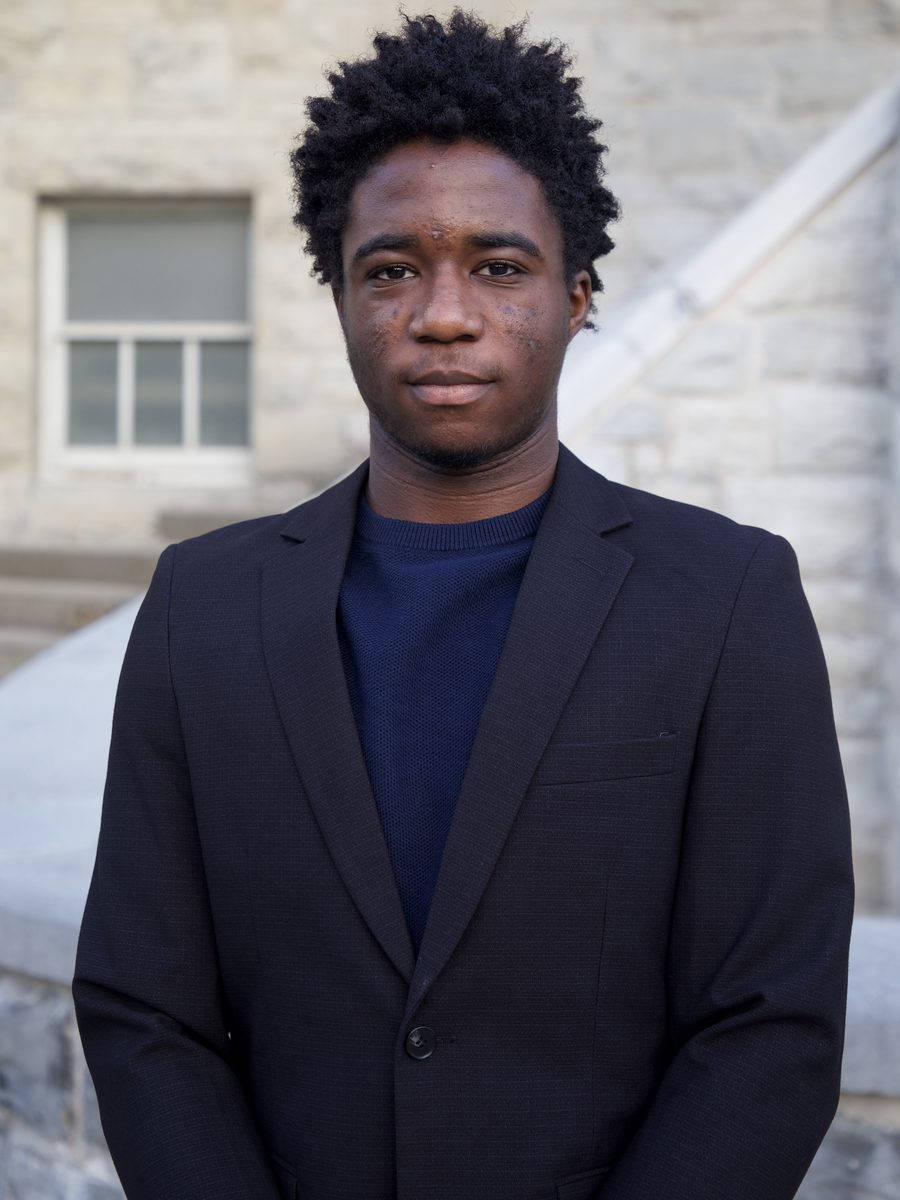
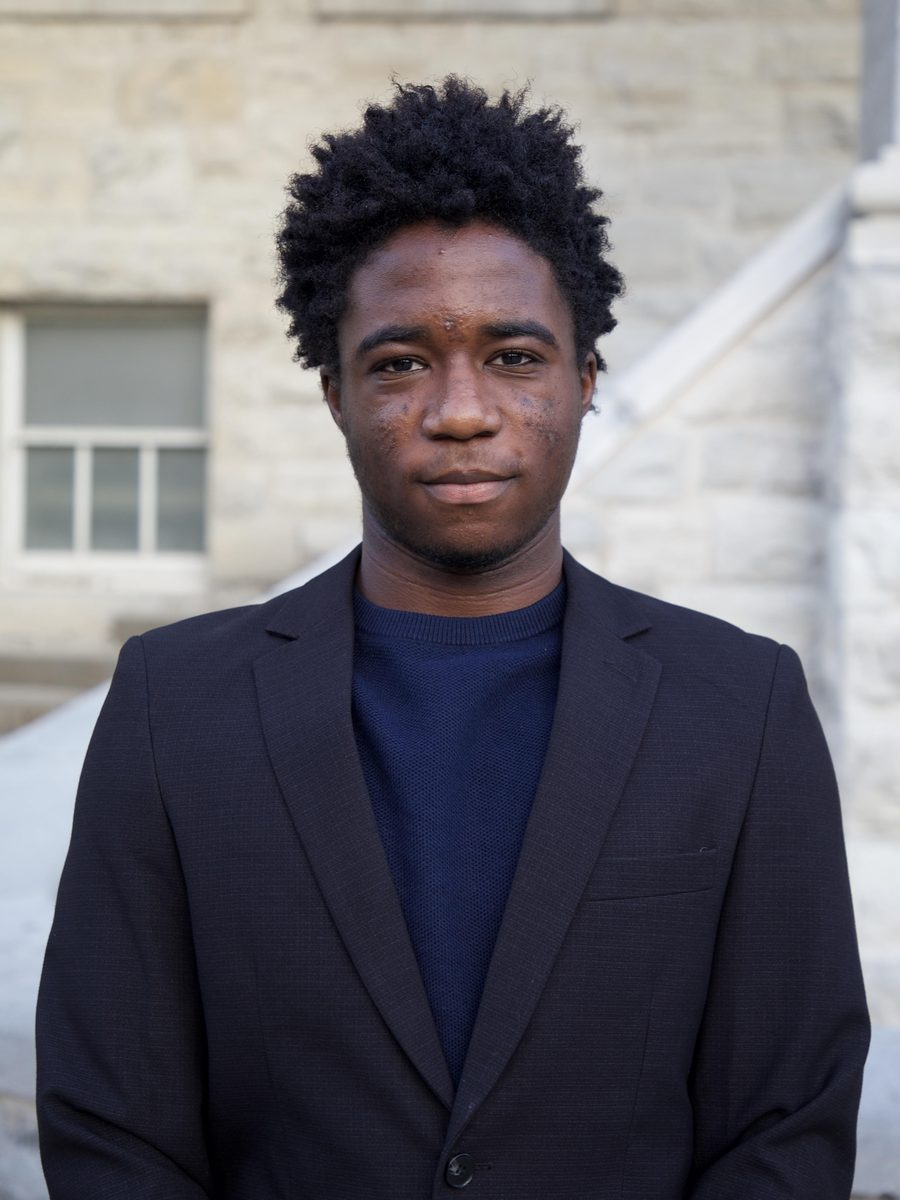
Update exec team, co-presidents, hero and About page layout
- New home hero photo (1B6A7463) with a lighter overlay
- Real roles for Ashley, Mariana and Claire; add Kaya Taitt and Tofunmi Onigbogi
- Add co-presidents Golden Onyekere and Mahuel Bunsie as portrait cards beside their note
- New photo for David Obayomi
- About: team photo in Our Story, pillars merged into Who We Are (image left)
- Phones: inner-page banners stack the photo above the title like the home hero

diff --git a/src/styles/global.css b/src/styles/global.css
@@ -267,7 +267,7 @@ a:focus-visible, button:focus-visible, input:focus-visible, [tabindex]:focus-vis
 }
 .hero-scrim {
   position: absolute; inset: 0;
-  background: linear-gradient(180deg, rgba(12,17,21,0) 55%, rgba(12,17,21,0.75) 100%);
+  background: linear-gradient(180deg, rgba(12,17,21,0) 45%, rgba(12,17,21,0.5) 68%, rgba(12,17,21,0.72) 100%);
 }
 .hero-content { position: relative; z-index: 2; max-width: 780px; }
 .hero-content h1 {
@@ -474,21 +474,19 @@ a:focus-visible, button:focus-visible, input:focus-visible, [tabindex]:focus-vis
 .pillar-card p { color: var(--gray-600); font-size: 0.98rem; }
 
 /* ---------- Exec grid ---------- */
-.exec-lead-grid { display: grid; grid-template-columns: repeat(2, 1fr); gap: 32px; margin-bottom: 64px; }
-.exec-lead-card {
-  display: flex; align-items: center; gap: 24px;
-  background: var(--purple-800);
-  border-radius: var(--radius-lg);
-  padding: 28px;
-  color: var(--white);
+/* Co-presidents use the same portrait cards as the team, two side by side. */
+.exec-grid.exec-lead-grid { grid-template-columns: repeat(2, 1fr); max-width: 560px; margin: 0 auto; }
+/* About page: co-president portraits beside their welcome note. */
+.leaders-split { display: grid; grid-template-columns: minmax(0, 1fr) minmax(0, 1.1fr); gap: 56px; align-items: center; }
+.leaders-split .exec-lead-grid { margin: 0; max-width: none; }
+.leaders-note h2 { color: var(--white); margin-bottom: 22px; }
+.leaders-note p { color: rgba(255,255,255,0.8); font-size: 1.05rem; margin-bottom: 16px; }
+.leaders-note .leaders-sign { font-family: var(--font-display); font-weight: 700; color: var(--gold-400); margin: 26px 0 0; }
+.leaders-sign span { display: block; font-family: var(--font-body); font-weight: 500; color: rgba(255,255,255,0.6); font-size: 0.85rem; }
+@media (max-width: 860px) {
+  .leaders-split { grid-template-columns: 1fr; gap: 40px; }
+  .leaders-split .exec-lead-grid { max-width: 560px; margin: 0 auto; width: 100%; }
 }
-.lead-avatar { width: 110px; height: 110px; border-radius: 50%; overflow: hidden; border: 3px solid var(--gold-500); flex-shrink: 0; }
-.lead-avatar img { width: 100%; height: 100%; object-fit: cover; object-position: center 30%; display: block; }
-.exec-lead-card h3 { font-size: 1.25rem; margin-bottom: 4px; }
-.exec-lead-card .role { color: var(--gold-400); font-weight: 600; font-size: 0.9rem; margin-bottom: 10px; }
-.exec-lead-card .li-link { display: inline-flex; align-items: center; gap: 6px; font-size: 0.85rem; color: rgba(255,255,255,0.75); font-weight: 600; }
-.exec-lead-card .li-link svg { width: 16px; height: 16px; }
-.exec-lead-card .li-link:hover { color: var(--white); }
 
 /* Portrait photo with a solid name/role bar underneath. */
 .exec-grid {
@@ -848,7 +846,6 @@ body::after {
   .split, .split.reverse .split-media { grid-template-columns: 1fr; order: 0; }
   .split { grid-template-columns: 1fr; gap: 40px; }
   .split-media img { height: 320px; }
-  .exec-lead-grid { grid-template-columns: 1fr; }
   .exec-grid { grid-template-columns: repeat(2, 1fr); }
   .event-grid { grid-template-columns: 1fr; }
   .mentor-grid { grid-template-columns: 1fr; }
@@ -991,10 +988,9 @@ a.cal-event-title:hover { text-decoration: underline; }
 .ig-badge svg { width: 15px; height: 15px; }
 
 /* ---------- About: story grid ---------- */
-.story-grid { display: grid; grid-template-columns: 1.05fr 1fr; gap: 56px; align-items: start; }
+.story-grid { display: grid; grid-template-columns: 0.9fr 1.1fr; gap: 48px; align-items: center; }
 .story-copy p { color: var(--gray-600); font-size: 1.06rem; margin-bottom: 18px; }
-.story-photos { display: grid; grid-template-columns: repeat(2, 1fr); gap: 14px; }
-.story-photos img { width: 100%; aspect-ratio: 1 / 1; object-fit: cover; border-radius: var(--radius-sm); border: 1px solid var(--gray-200); }
+.story-photo img { width: 100%; aspect-ratio: 4 / 5; object-fit: cover; border-radius: var(--radius-sm); border: 1px solid var(--gray-200); }
 
 /* ---------- Mentorship: first year block ---------- */
 .firstyear {
@@ -1257,6 +1253,13 @@ a.cal-event-title:hover { text-decoration: underline; }
   .hero-content { padding-top: 28px; }
   .hero-content h1 { margin-bottom: 16px; }
   .hero-content p.lead { margin-bottom: 28px; }
+
+  /* Inner-page banners (About, Events, Mentorship...) stack the same way, so
+     the whole photo shows instead of a narrow slice behind the title. */
+  .page-hero, .page-hero-short { display: block; min-height: 0; padding: 92px 0 40px; }
+  .page-hero-bg { position: relative; inset: auto; width: 100%; aspect-ratio: 3 / 2; background-position: center !important; transform: none; }
+  .page-hero-scrim { display: none; }
+  .page-hero-content { padding-top: 28px; }
 
   /* Footer (every page): Address and Email side by side, socials on one line. */
   .site-footer { padding: 40px 0 20px; }

diff --git a/src/content/exec/mariana-baraki.md b/src/content/exec/mariana-baraki.md
@@ -1,8 +1,8 @@
 ---
 name: "Mariana Baraki"
-role: "Executive Member"
-department: "Executive"
+role: "Outreach Director"
+department: "Outreach"
 photo: "/images/uploads/exec-mariana-baraki.jpg"
 linkedin: "https://www.linkedin.com/in/mariana-baraki-985b151b2/"
-order: 9
+order: 12
 ---

diff --git a/src/content/exec/claire-de-nettancourt.md b/src/content/exec/claire-de-nettancourt.md
@@ -1,7 +1,7 @@
 ---
 name: "Claire de Nettancourt"
-role: "Executive Member"
-department: "Executive"
+role: "Outreach Coordinator"
+department: "Outreach"
 photo: "/images/uploads/exec-claire-de-nettancourt.jpg"
 linkedin: "https://www.linkedin.com/in/claire-de-nettancourt/"
 order: 4

diff --git a/src/content/exec/ashley-belgrave.md b/src/content/exec/ashley-belgrave.md
@@ -1,7 +1,7 @@
 ---
 name: "Ashley Belgrave"
-role: "Executive Member"
-department: "Executive"
+role: "Marketing Director"
+department: "Marketing"
 photo: "/images/uploads/exec-ashley-belgrave.jpg"
 linkedin: "https://www.linkedin.com/in/ashley-belgrave-781a12307/"
 order: 3

diff --git a/src/content/exec/tofunmi-onigbogi.md b/src/content/exec/tofunmi-onigbogi.md
@@ -1,0 +1,8 @@
+---
+name: "Tofunmi Onigbogi"
+role: "Events Coordinator"
+department: "Events"
+photo: "/images/uploads/exec-tofunmi-onigbogi.jpg"
+linkedin: "https://www.linkedin.com/in/tofunmi-onigbogi-6547853a6/"
+order: 16
+---

diff --git a/src/content/exec/kaya-taitt.md b/src/content/exec/kaya-taitt.md
@@ -1,0 +1,8 @@
+---
+name: "Kaya Taitt"
+role: "Mentorship Co-Director"
+department: "Mentorship"
+photo: "/images/uploads/exec-kaya-taitt.jpg"
+linkedin: "https://www.linkedin.com/in/kaya-taitt-1201a12b6/"
+order: 9
+---

diff --git a/src/content/exec/khanyiso-mnkantjo.md b/src/content/exec/khanyiso-mnkantjo.md
@@ -4,5 +4,5 @@ role: "Sponsorship Director"
 department: "Sponsorship"
 photo: "/images/uploads/exec-khanyiso-mnkantjo.jpg"
 linkedin: "https://www.linkedin.com/in/khanyiso-mnkantjo/"
-order: 8
+order: 10
 ---

diff --git a/src/content/exec/johann-samuel-nana.md b/src/content/exec/johann-samuel-nana.md
@@ -4,5 +4,5 @@ role: "Sponsorship Coordinator"
 department: "Sponsorship"
 photo: "/images/uploads/exec-johann-samuel-nana.jpg"
 linkedin: "https://www.linkedin.com/in/johann-s-nana/"
-order: 7
+order: 8
 ---

diff --git a/src/content/exec/temi-toogun.md b/src/content/exec/temi-toogun.md
@@ -4,5 +4,5 @@ role: "Mentorship Co-Director"
 department: "Mentorship"
 photo: "/images/uploads/exec-temi-toogun.jpg"
 linkedin: "https://www.linkedin.com/in/temi-toogun/"
-order: 12
+order: 15
 ---

diff --git a/src/content/exec/tarah.md b/src/content/exec/tarah.md
@@ -4,5 +4,5 @@ role: "Events Director"
 department: "Events"
 photo: "/images/uploads/exec-tarah.jpg"
 linkedin: "https://www.linkedin.com/in/tara-gentles-41804733b/"
-order: 11
+order: 14
 ---

diff --git a/src/content/exec/obinna-ukaga.md b/src/content/exec/obinna-ukaga.md
@@ -3,5 +3,5 @@ name: "Obinna Ukaga"
 role: "Finance Coordinator"
 department: "Finance"
 photo: "/images/uploads/exec-obinna-ukaga.jpg"
-order: 10
+order: 13
 ---

diff --git a/src/content/exec/golden-onyekere.md b/src/content/exec/golden-onyekere.md
@@ -1,0 +1,7 @@
+---
+name: "Golden Onyekere"
+role: "Co-President"
+department: "Executive"
+photo: "/images/uploads/exec-golden-onyekere.jpg"
+order: 7
+---
